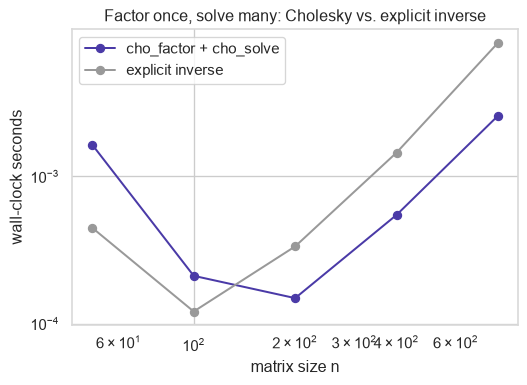
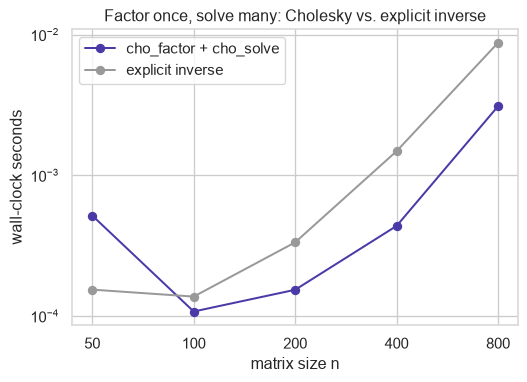
fix(posts): add business context to matrix-factorizations examples, fix Cholesky plot axes
Each applied section now opens with the real-world problem the technique
solves (fleet monitoring noise, breeding-program trial costs, leukemia
subtyping) before the dataset. The Cholesky benchmark's log-scale x-axis
had overlapping tick labels from matplotlib's default minor-tick
formatting; pinned explicit ticks at the actual matrix sizes tested.

diff --git a/docs/posts/matrix-factorizations/index.html b/docs/posts/matrix-factorizations/index.html
@@ -244,26 +244,27 @@ window.Quarto = {
 </figure>
 </div>
 <p>Every factorization here is the closed-form answer to a constrained optimization problem — you just don’t usually see the constraint written down. QR is OLS refusing to square its condition number. Truncated SVD is the provably best solution to “compress this matrix.” Eigendecomposition falls out of maximizing variance along one direction instead of building two orthogonal bases. NMF is SVD’s optimum with a sign constraint bolted on. Cholesky is a positive-definite solve that stops re-deriving the inverse every time. Picking a factorization is picking which constraint buys stability, compression, or interpretability.</p>
-<div id="c3ec2545" class="cell" data-execution_count="1">
+<div id="27f1da97" class="cell" data-execution_count="1">
 <details class="code-fold">
 <summary>Code</summary>
 <div class="sourceCode cell-code" id="cb1"><pre class="sourceCode python code-with-copy"><code class="sourceCode python"><span id="cb1-1"><a href="#cb1-1" aria-hidden="true" tabindex="-1"></a><span class="im">import</span> io</span>
 <span id="cb1-2"><a href="#cb1-2" aria-hidden="true" tabindex="-1"></a><span class="im">import</span> time</span>
 <span id="cb1-3"><a href="#cb1-3" aria-hidden="true" tabindex="-1"></a></span>
 <span id="cb1-4"><a href="#cb1-4" aria-hidden="true" tabindex="-1"></a><span class="im">import</span> matplotlib.pyplot <span class="im">as</span> plt</span>
-<span id="cb1-5"><a href="#cb1-5" aria-hidden="true" tabindex="-1"></a><span class="im">import</span> numpy <span class="im">as</span> np</span>
-<span id="cb1-6"><a href="#cb1-6" aria-hidden="true" tabindex="-1"></a><span class="im">import</span> pandas <span class="im">as</span> pd</span>
-<span id="cb1-7"><a href="#cb1-7" aria-hidden="true" tabindex="-1"></a><span class="im">import</span> pyreadr</span>
-<span id="cb1-8"><a href="#cb1-8" aria-hidden="true" tabindex="-1"></a><span class="im">import</span> requests</span>
-<span id="cb1-9"><a href="#cb1-9" aria-hidden="true" tabindex="-1"></a><span class="im">import</span> seaborn <span class="im">as</span> sns</span>
-<span id="cb1-10"><a href="#cb1-10" aria-hidden="true" tabindex="-1"></a><span class="im">from</span> numpy.linalg <span class="im">import</span> cond, eigh, svd</span>
-<span id="cb1-11"><a href="#cb1-11" aria-hidden="true" tabindex="-1"></a><span class="im">from</span> scipy.linalg <span class="im">import</span> cho_factor, cho_solve, cholesky, qr, solve, solve_triangular</span>
-<span id="cb1-12"><a href="#cb1-12" aria-hidden="true" tabindex="-1"></a><span class="im">from</span> sklearn.decomposition <span class="im">import</span> NMF</span>
-<span id="cb1-13"><a href="#cb1-13" aria-hidden="true" tabindex="-1"></a></span>
-<span id="cb1-14"><a href="#cb1-14" aria-hidden="true" tabindex="-1"></a>sns.set_theme(style<span class="op">=</span><span class="st">"whitegrid"</span>, rc<span class="op">=</span>{<span class="st">"axes.edgecolor"</span>: <span class="st">"0.85"</span>})</span>
-<span id="cb1-15"><a href="#cb1-15" aria-hidden="true" tabindex="-1"></a>ACCENT <span class="op">=</span> <span class="st">"#4A3AA7"</span></span>
-<span id="cb1-16"><a href="#cb1-16" aria-hidden="true" tabindex="-1"></a>GREY <span class="op">=</span> <span class="st">"#999999"</span></span>
-<span id="cb1-17"><a href="#cb1-17" aria-hidden="true" tabindex="-1"></a>rng <span class="op">=</span> np.random.default_rng(<span class="dv">7</span>)</span></code><button title="Copy to Clipboard" class="code-copy-button"><i class="bi"></i></button></pre></div>
+<span id="cb1-5"><a href="#cb1-5" aria-hidden="true" tabindex="-1"></a><span class="im">import</span> matplotlib.ticker <span class="im">as</span> mticker</span>
+<span id="cb1-6"><a href="#cb1-6" aria-hidden="true" tabindex="-1"></a><span class="im">import</span> numpy <span class="im">as</span> np</span>
+<span id="cb1-7"><a href="#cb1-7" aria-hidden="true" tabindex="-1"></a><span class="im">import</span> pandas <span class="im">as</span> pd</span>
+<span id="cb1-8"><a href="#cb1-8" aria-hidden="true" tabindex="-1"></a><span class="im">import</span> pyreadr</span>
+<span id="cb1-9"><a href="#cb1-9" aria-hidden="true" tabindex="-1"></a><span class="im">import</span> requests</span>
+<span id="cb1-10"><a href="#cb1-10" aria-hidden="true" tabindex="-1"></a><span class="im">import</span> seaborn <span class="im">as</span> sns</span>
+<span id="cb1-11"><a href="#cb1-11" aria-hidden="true" tabindex="-1"></a><span class="im">from</span> numpy.linalg <span class="im">import</span> cond, eigh, svd</span>
+<span id="cb1-12"><a href="#cb1-12" aria-hidden="true" tabindex="-1"></a><span class="im">from</span> scipy.linalg <span class="im">import</span> cho_factor, cho_solve, cholesky, qr, solve, solve_triangular</span>
+<span id="cb1-13"><a href="#cb1-13" aria-hidden="true" tabindex="-1"></a><span class="im">from</span> sklearn.decomposition <span class="im">import</span> NMF</span>
+<span id="cb1-14"><a href="#cb1-14" aria-hidden="true" tabindex="-1"></a></span>
+<span id="cb1-15"><a href="#cb1-15" aria-hidden="true" tabindex="-1"></a>sns.set_theme(style<span class="op">=</span><span class="st">"whitegrid"</span>, rc<span class="op">=</span>{<span class="st">"axes.edgecolor"</span>: <span class="st">"0.85"</span>})</span>
+<span id="cb1-16"><a href="#cb1-16" aria-hidden="true" tabindex="-1"></a>ACCENT <span class="op">=</span> <span class="st">"#4A3AA7"</span></span>
+<span id="cb1-17"><a href="#cb1-17" aria-hidden="true" tabindex="-1"></a>GREY <span class="op">=</span> <span class="st">"#999999"</span></span>
+<span id="cb1-18"><a href="#cb1-18" aria-hidden="true" tabindex="-1"></a>rng <span class="op">=</span> np.random.default_rng(<span class="dv">7</span>)</span></code><button title="Copy to Clipboard" class="code-copy-button"><i class="bi"></i></button></pre></div>
 </details>
 </div>
 <section id="squaring-the-condition-number-is-the-hidden-cost-of-the-normal-equations" class="level2">
@@ -282,7 +283,7 @@ window.Quarto = {
 <p>and since <span class="math inline">\(R^T\)</span> is invertible, both sides cancel it, leaving</p>
 <p><span class="math display">\[R\beta=Q^Ty.\]</span></p>
 <p>Back-substitution solves this in <span class="math inline">\(O(n^2)\)</span>, conditioned on <span class="math inline">\(\kappa(X)\)</span> — never <span class="math inline">\(\kappa(X)^2\)</span> — because <span class="math inline">\(X^TX\)</span> is never formed.</p>
-<div id="c2c6a108" class="cell" data-execution_count="2">
+<div id="a24dccba" class="cell" data-execution_count="2">
 <details class="code-fold">
 <summary>Code</summary>
 <div class="sourceCode cell-code" id="cb2"><pre class="sourceCode python code-with-copy"><code class="sourceCode python"><span id="cb2-1"><a href="#cb2-1" aria-hidden="true" tabindex="-1"></a><span class="co"># Build X with a controlled condition number instead of a raw high-degree</span></span>
@@ -325,7 +326,7 @@ cond(X.T@X) = 1.000e+12
 <p>with equality exactly at the truncation</p>
 <p><span class="math display">\[A_k=\sum_{i\le k}\sigma_i u_i v_i^T.\]</span></p>
 <p>The proof runs through Courant-Fischer: any rank-<span class="math inline">\(k\)</span> <span class="math inline">\(B\)</span> vanishes on some <span class="math inline">\((n-k)\)</span>-dimensional subspace, which lower-bounds its residual by the tail singular values no matter how <span class="math inline">\(B\)</span> is chosen. That’s a statement about <em>every</em> rank-<span class="math inline">\(k\)</span> matrix, not just other factorizations — nothing beats truncated SVD on Frobenius error at a given rank.</p>
-<div id="ca33cd0c" class="cell" data-execution_count="3">
+<div id="94e5a1ff" class="cell" data-execution_count="3">
 <details class="code-fold">
 <summary>Code</summary>
 <div class="sourceCode cell-code" id="cb4"><pre class="sourceCode python code-with-copy"><code class="sourceCode python"><span id="cb4-1"><a href="#cb4-1" aria-hidden="true" tabindex="-1"></a>A <span class="op">=</span> rng.normal(size<span class="op">=</span>(<span class="dv">60</span>, <span class="dv">40</span>))</span>
@@ -353,7 +354,7 @@ sqrt(sum tail^2) = 32.942888</code></pre>
 <p>with stationarity condition</p>
 <p><span class="math display">\[\nabla_v\mathcal L=2Av-2\lambda v=0 \implies Av=\lambda v\]</span></p>
 <p>— eigenvectors are the Rayleigh quotient’s stationary points, eigenvalues the stationary values. <span class="math inline">\(A=Q\Lambda Q^T\)</span> falls out by repeating the maximization on the orthogonal complement already found. For <span class="math inline">\(\Sigma=X^TX\)</span>, eigenvalues of <span class="math inline">\(\Sigma\)</span> are <span class="math inline">\(\sigma_i(X)^2\)</span> — the same identity from above. Eigendecomposing a covariance matrix directly inherits the normal equations’ <span class="math inline">\(\kappa(X)^2\)</span> instability; SVD on the centered data instead sidesteps it, the same fix as before.</p>
-<div id="43394087" class="cell" data-execution_count="4">
+<div id="7755ba3d" class="cell" data-execution_count="4">
 <details class="code-fold">
 <summary>Code</summary>
 <div class="sourceCode cell-code" id="cb6"><pre class="sourceCode python code-with-copy"><code class="sourceCode python"><span id="cb6-1"><a href="#cb6-1" aria-hidden="true" tabindex="-1"></a>Xc <span class="op">=</span> X <span class="op">-</span> X.mean(axis<span class="op">=</span><span class="dv">0</span>)</span>
@@ -380,7 +381,7 @@ cond(Sigma) = 9.911e+11   cond(Xc) = 9.955e+05</code></pre>
 <p>Lee and Seung’s multiplicative update rescales gradient descent so nonnegativity holds automatically:</p>
 <p><span class="math display">\[H \leftarrow H \odot \frac{W^TV}{W^TWH}, \qquad W \leftarrow W \odot \frac{VH^T}{WHH^T},\]</span></p>
 <p>and it provably decreases the objective monotonically. The cost: it’s only biconvex, not jointly convex, so it converges to <em>a</em> stationary point, not the global one, and it’s sensitive to initialization — <code>nndsvda</code> is a deterministic fix for that, not a guarantee.</p>
-<div id="e029911a" class="cell" data-execution_count="5">
+<div id="f160b223" class="cell" data-execution_count="5">
 <details class="code-fold">
 <summary>Code</summary>
 <div class="sourceCode cell-code" id="cb8"><pre class="sourceCode python code-with-copy"><code class="sourceCode python"><span id="cb8-1"><a href="#cb8-1" aria-hidden="true" tabindex="-1"></a>V_demo <span class="op">=</span> rng.gamma(shape<span class="op">=</span><span class="fl">2.0</span>, scale<span class="op">=</span><span class="fl">1.0</span>, size<span class="op">=</span>(<span class="dv">50</span>, <span class="dv">30</span>))</span>
@@ -405,7 +406,7 @@ W, H nonnegative: True, True</code></pre>
 <p>versus forming <span class="math inline">\(A^{-1}\)</span> explicitly, similar asymptotic cost but worse constants and conditioning — never invert to solve. For covariance-structured data,</p>
 <p><span class="math display">\[x=Lz, \quad z\sim\mathcal N(0,I) \implies x\sim\mathcal N(0,\Sigma):\]</span></p>
 <p>Cholesky is the sampling mechanism, not just the solver.</p>
-<div id="d80a9191" class="cell" data-execution_count="6">
+<div id="5670c2c9" class="cell" data-execution_count="6">
 <details class="code-fold">
 <summary>Code</summary>
 <div class="sourceCode cell-code" id="cb10"><pre class="sourceCode python code-with-copy"><code class="sourceCode python"><span id="cb10-1"><a href="#cb10-1" aria-hidden="true" tabindex="-1"></a>sizes <span class="op">=</span> [<span class="dv">50</span>, <span class="dv">100</span>, <span class="dv">200</span>, <span class="dv">400</span>, <span class="dv">800</span>]</span>
@@ -427,11 +428,14 @@ W, H nonnegative: True, True</code></pre>
 <span id="cb10-17"><a href="#cb10-17" aria-hidden="true" tabindex="-1"></a>fig, ax <span class="op">=</span> plt.subplots(figsize<span class="op">=</span>(<span class="dv">6</span>, <span class="dv">4</span>))</span>
 <span id="cb10-18"><a href="#cb10-18" aria-hidden="true" tabindex="-1"></a>ax.loglog(sizes, factor_times, <span class="st">"o-"</span>, color<span class="op">=</span>ACCENT, label<span class="op">=</span><span class="st">"cho_factor + cho_solve"</span>)</span>
 <span id="cb10-19"><a href="#cb10-19" aria-hidden="true" tabindex="-1"></a>ax.loglog(sizes, inv_times, <span class="st">"o-"</span>, color<span class="op">=</span>GREY, label<span class="op">=</span><span class="st">"explicit inverse"</span>)</span>
-<span id="cb10-20"><a href="#cb10-20" aria-hidden="true" tabindex="-1"></a>ax.set_xlabel(<span class="st">"matrix size n"</span>)</span>
-<span id="cb10-21"><a href="#cb10-21" aria-hidden="true" tabindex="-1"></a>ax.set_ylabel(<span class="st">"wall-clock seconds"</span>)</span>
-<span id="cb10-22"><a href="#cb10-22" aria-hidden="true" tabindex="-1"></a>ax.set_title(<span class="st">"Factor once, solve many: Cholesky vs. explicit inverse"</span>)</span>
-<span id="cb10-23"><a href="#cb10-23" aria-hidden="true" tabindex="-1"></a>ax.legend()</span>
-<span id="cb10-24"><a href="#cb10-24" aria-hidden="true" tabindex="-1"></a>plt.show()</span></code><button title="Copy to Clipboard" class="code-copy-button"><i class="bi"></i></button></pre></div>
+<span id="cb10-20"><a href="#cb10-20" aria-hidden="true" tabindex="-1"></a>ax.xaxis.set_major_locator(mticker.FixedLocator(sizes))</span>
+<span id="cb10-21"><a href="#cb10-21" aria-hidden="true" tabindex="-1"></a>ax.xaxis.set_major_formatter(mticker.FixedFormatter([<span class="bu">str</span>(s) <span class="cf">for</span> s <span class="kw">in</span> sizes]))</span>
+<span id="cb10-22"><a href="#cb10-22" aria-hidden="true" tabindex="-1"></a>ax.xaxis.set_minor_locator(mticker.NullLocator())</span>
+<span id="cb10-23"><a href="#cb10-23" aria-hidden="true" tabindex="-1"></a>ax.set_xlabel(<span class="st">"matrix size n"</span>)</span>
+<span id="cb10-24"><a href="#cb10-24" aria-hidden="true" tabindex="-1"></a>ax.set_ylabel(<span class="st">"wall-clock seconds"</span>)</span>
+<span id="cb10-25"><a href="#cb10-25" aria-hidden="true" tabindex="-1"></a>ax.set_title(<span class="st">"Factor once, solve many: Cholesky vs. explicit inverse"</span>)</span>
+<span id="cb10-26"><a href="#cb10-26" aria-hidden="true" tabindex="-1"></a>ax.legend()</span>
+<span id="cb10-27"><a href="#cb10-27" aria-hidden="true" tabindex="-1"></a>plt.show()</span></code><button title="Copy to Clipboard" class="code-copy-button"><i class="bi"></i></button></pre></div>
 </details>
 <div class="cell-output cell-output-display">
 <div>
@@ -444,8 +448,8 @@ W, H nonnegative: True, True</code></pre>
 </section>
 <section id="a-real-ec2-fleets-telemetry-is-a-low-rank-signal-plus-a-spike-svd-isolates" class="level2">
 <h2 class="anchored" data-anchor-id="a-real-ec2-fleets-telemetry-is-a-low-rank-signal-plus-a-spike-svd-isolates">A real EC2 fleet’s telemetry is a low-rank signal plus a spike SVD isolates</h2>
-<p>Numenta built the <a href="https://github.com/numenta/NAB">NAB benchmark</a> to test anomaly detection against real streaming metrics, not synthetic ones: its <code>realAWSCloudwatch</code> category is CPU utilization from eight actual production EC2 instances via AmazonCloudwatch, each with human-verified anomaly timestamps. Eight instances, not thousands — worth saying plainly. <em>(This section and the two after it fetch real data live at render time; a future re-render depends on those repositories staying up, though a project-wide render never re-executes this page once frozen.)</em></p>
-<div id="f2a3a337" class="cell" data-execution_count="7">
+<p>A cloud team can’t stare at every instance’s dashboard — the practical ask is a handful of scores that catch a real incident without flooding on-call with false alarms, which is exactly the compression-versus-vigilance tradeoff a factorization is suited to. Numenta built the <a href="https://github.com/numenta/NAB">NAB benchmark</a> to test anomaly detection against real streaming metrics, not synthetic ones, for that reason: its <code>realAWSCloudwatch</code> category is CPU utilization from eight actual production EC2 instances via AmazonCloudwatch, each with human-verified anomaly timestamps. Eight instances, not thousands — worth saying plainly. <em>(This section and the two after it fetch real data live at render time; a future re-render depends on those repositories staying up, though a project-wide render never re-executes this page once frozen.)</em></p>
+<div id="c9524f8f" class="cell" data-execution_count="7">
 <details class="code-fold">
 <summary>Code</summary>
 <div class="sourceCode cell-code" id="cb11"><pre class="sourceCode python code-with-copy"><code class="sourceCode python"><span id="cb11-1"><a href="#cb11-1" aria-hidden="true" tabindex="-1"></a>base <span class="op">=</span> <span class="st">"https://raw.githubusercontent.com/numenta/NAB/master"</span></span>
@@ -470,7 +474,7 @@ W, H nonnegative: True, True</code></pre>
 </div>
 </div>
 <p>Stack all eight as columns of one real matrix and take the SVD; the scree plot’s elbow says a handful of factors carry the fleet’s shared regime structure:</p>
-<div id="36464a1d" class="cell" data-execution_count="8">
+<div id="a29c420f" class="cell" data-execution_count="8">
 <details class="code-fold">
 <summary>Code</summary>
 <div class="sourceCode cell-code" id="cb13"><pre class="sourceCode python code-with-copy"><code class="sourceCode python"><span id="cb13-1"><a href="#cb13-1" aria-hidden="true" tabindex="-1"></a>X_tel <span class="op">=</span> telemetry.to_numpy()</span>
@@ -492,7 +496,7 @@ W, H nonnegative: True, True</code></pre>
 </div>
 </div>
 </div>
-<div id="72f83b71" class="cell" data-execution_count="9">
+<div id="eaaf7ff4" class="cell" data-execution_count="9">
 <details class="code-fold">
 <summary>Code</summary>
 <div class="sourceCode cell-code" id="cb14"><pre class="sourceCode python code-with-copy"><code class="sourceCode python"><span id="cb14-1"><a href="#cb14-1" aria-hidden="true" tabindex="-1"></a>fig, ax <span class="op">=</span> plt.subplots(figsize<span class="op">=</span>(<span class="dv">8</span>, <span class="fl">2.8</span>))</span>
@@ -511,7 +515,7 @@ W, H nonnegative: True, True</code></pre>
 </div>
 </div>
 <p>The residual after truncating isn’t just visually busy near the labeled anomalies — it’s the anomaly <em>score</em>, and here it’s checked against timestamps a human actually flagged, not injected ones:</p>
-<div id="8d1a3beb" class="cell" data-execution_count="10">
+<div id="01fc7b47" class="cell" data-execution_count="10">
 <details class="code-fold">
 <summary>Code</summary>
 <div class="sourceCode cell-code" id="cb15"><pre class="sourceCode python code-with-copy"><code class="sourceCode python"><span id="cb15-1"><a href="#cb15-1" aria-hidden="true" tabindex="-1"></a>k_tel <span class="op">=</span> <span class="dv">4</span></span>
@@ -541,8 +545,8 @@ W, H nonnegative: True, True</code></pre>
 </section>
 <section id="linkage-disequilibrium-is-collinearity-with-a-biological-name-and-qr-survives-it" class="level2">
 <h2 class="anchored" data-anchor-id="linkage-disequilibrium-is-collinearity-with-a-biological-name-and-qr-survives-it">Linkage disequilibrium is collinearity with a biological name, and QR survives it</h2>
-<p>CIMMYT’s Global Wheat Program genotyped 599 real breeding lines at 1279 real DArT markers and recorded real grain yield across four field environments, distributed for reuse via the BGLR R package.</p>
-<div id="4ba4b1e4" class="cell" data-execution_count="11">
+<p>A breeding program genotypes far more candidate lines than it can afford to field-trial — advancing the wrong ones wastes a growing season that can’t be sped up. Genomic selection exists to make that call from markers alone, before a single seed is planted. CIMMYT’s Global Wheat Program genotyped 599 real breeding lines at 1279 real DArT markers and recorded real grain yield across four field environments, distributed for reuse via the BGLR R package.</p>
+<div id="137eca56" class="cell" data-execution_count="11">
 <details class="code-fold">
 <summary>Code</summary>
 <div class="sourceCode cell-code" id="cb16"><pre class="sourceCode python code-with-copy"><code class="sourceCode python"><span id="cb16-1"><a href="#cb16-1" aria-hidden="true" tabindex="-1"></a>resp <span class="op">=</span> requests.get(<span class="st">"https://raw.githubusercontent.com/gdlc/BGLR-R/master/data/wheat.RData"</span>, timeout<span class="op">=</span><span class="dv">60</span>)</span>
@@ -559,7 +563,7 @@ W, H nonnegative: True, True</code></pre>
 </div>
 </div>
 <p>With <span class="math inline">\(p=1279\)</span> markers exceeding <span class="math inline">\(n=599\)</span> lines, the full marker matrix makes <span class="math inline">\(X^TX\)</span> singular outright — normal equations can’t even be inverted. Subsetting by variance and sweeping how many markers enter the regression shows two real effects at once:</p>
-<div id="9075ecfa" class="cell" data-execution_count="12">
+<div id="720d4a83" class="cell" data-execution_count="12">
 <details class="code-fold">
 <summary>Code</summary>
 <div class="sourceCode cell-code" id="cb18"><pre class="sourceCode python code-with-copy"><code class="sourceCode python"><span id="cb18-1"><a href="#cb18-1" aria-hidden="true" tabindex="-1"></a>marker_var <span class="op">=</span> X_markers.var(axis<span class="op">=</span><span class="dv">0</span>)</span>
@@ -598,7 +602,7 @@ cond(X):       ['2.28e+01', '8.56e+01', '2.37e+02', '5.25e+02', '1.13e+03', '2.2
 cond(X.T@X):   ['5.19e+02', '7.33e+03', '5.62e+04', '2.75e+05', '1.27e+06', '4.88e+06', '3.57e+08']</code></pre>
 </div>
 </div>
-<div id="e8e6ba6a" class="cell" data-execution_count="13">
+<div id="74f57241" class="cell" data-execution_count="13">
 <details class="code-fold">
 <summary>Code</summary>
 <div class="sourceCode cell-code" id="cb20"><pre class="sourceCode python code-with-copy"><code class="sourceCode python"><span id="cb20-1"><a href="#cb20-1" aria-hidden="true" tabindex="-1"></a>fig, axes <span class="op">=</span> plt.subplots(<span class="dv">1</span>, <span class="dv">3</span>, figsize<span class="op">=</span>(<span class="dv">14</span>, <span class="dv">4</span>))</span>
@@ -634,7 +638,7 @@ cond(X.T@X):   ['5.19e+02', '7.33e+03', '5.62e+04', '2.75e+05', '1.27e+06', '4.8
 </div>
 <p>Held-out accuracy degrades toward zero as marker count nears the 450 training lines — real overfitting, the reason genomic selection never runs plain OLS at genome-wide marker density. Conditioning explains the risk underneath: <span class="math inline">\(\kappa(X)\)</span> and <span class="math inline">\(\kappa(X^TX)\)</span> both grow by orders of magnitude as <span class="math inline">\(p\to n\)</span>, but <span class="math inline">\(\kappa(X^TX)\)</span> — normal equations’ effective conditioning — outpaces <span class="math inline">\(\kappa(X)\)</span> by exactly the squaring from the opening section, burning through double precision’s <span class="math inline">\(\sim\!10^{16}\)</span> margin at roughly half the marker count QR can still handle. That’s the real mechanism behind why breeding programs use ridge-shrunk GBLUP instead of raw least squares — exactly what the same real markers do next.</p>
 <p>The same 350 markers build <span class="math inline">\(G\propto XX^T\)</span>, the genomic relationship matrix. Cholesky-factoring <span class="math inline">\(G\)</span> and sampling <span class="math inline">\(x=Lz\)</span> is the actual mechanism GBLUP uses to simulate correlated breeding values:</p>
-<div id="a787a544" class="cell" data-execution_count="14">
+<div id="515cb5bd" class="cell" data-execution_count="14">
 <details class="code-fold">
 <summary>Code</summary>
 <div class="sourceCode cell-code" id="cb21"><pre class="sourceCode python code-with-copy"><code class="sourceCode python"><span id="cb21-1"><a href="#cb21-1" aria-hidden="true" tabindex="-1"></a>G <span class="op">=</span> (X_sub <span class="op">@</span> X_sub.T) <span class="op">/</span> X_sub.shape[<span class="dv">1</span>]</span>
@@ -648,7 +652,7 @@ cond(X.T@X):   ['5.19e+02', '7.33e+03', '5.62e+04', '2.75e+05', '1.27e+06', '4.8
 </div>
 </div>
 <p>Eigendecomposing that same <span class="math inline">\(G\)</span> — the identity from two sections above, now applied instead of proved — recovers population-structure axes among the 599 real lines:</p>
-<div id="95ae988f" class="cell" data-execution_count="15">
+<div id="d88a6ef9" class="cell" data-execution_count="15">
 <details class="code-fold">
 <summary>Code</summary>
 <div class="sourceCode cell-code" id="cb23"><pre class="sourceCode python code-with-copy"><code class="sourceCode python"><span id="cb23-1"><a href="#cb23-1" aria-hidden="true" tabindex="-1"></a>eigvals_G, eigvecs_G <span class="op">=</span> eigh(G)</span>
@@ -674,8 +678,8 @@ cond(X.T@X):   ['5.19e+02', '7.33e+03', '5.62e+04', '2.75e+05', '1.27e+06', '4.8
 </section>
 <section id="nonnegative-factors-split-real-leukemia-expression-into-the-diagnosis-nobody-told-the-model" class="level2">
 <h2 class="anchored" data-anchor-id="nonnegative-factors-split-real-leukemia-expression-into-the-diagnosis-nobody-told-the-model">Nonnegative factors split real leukemia expression into the diagnosis nobody told the model</h2>
-<p>Golub et al.&nbsp;profiled real bone-marrow samples from 72 leukemia patients on Affymetrix microarrays in 1999, founding molecular cancer classification; Brunet et al.&nbsp;reused this exact data in 2004 to introduce NMF-based tumor subtyping.</p>
-<div id="3ee63626" class="cell" data-execution_count="16">
+<p>A blood smear alone doesn’t always resolve ALL from AML, and the two are treated with different drug regimens — a wrong call costs a patient the right protocol. Expression profiling was the first tool that could resolve the subtype molecularly, without a hand-labeled training set. Golub et al.&nbsp;profiled real bone-marrow samples from 72 leukemia patients on Affymetrix microarrays in 1999, founding molecular cancer classification; Brunet et al.&nbsp;reused this exact data in 2004 to introduce NMF-based tumor subtyping.</p>
+<div id="84ba659c" class="cell" data-execution_count="16">
 <details class="code-fold">
 <summary>Code</summary>
 <div class="sourceCode cell-code" id="cb24"><pre class="sourceCode python code-with-copy"><code class="sourceCode python"><span id="cb24-1"><a href="#cb24-1" aria-hidden="true" tabindex="-1"></a>gbase <span class="op">=</span> <span class="st">"https://raw.githubusercontent.com/dharsandip/Classification_of_Cancer_by_Gene_Expression_Dataset/master"</span></span>
@@ -703,7 +707,7 @@ cond(X.T@X):   ['5.19e+02', '7.33e+03', '5.62e+04', '2.75e+05', '1.27e+06', '4.8
 </div>
 </div>
 <p>NMF needs <span class="math inline">\(V\ge0\)</span>, so raw intensities — which include negative background noise — get floored to a small positive value, then log-transformed and subset to the most variable genes: standard microarray preprocessing, and the step Brunet et al.&nbsp;also applied before fitting NMF to this exact data:</p>
-<div id="13ad0b03" class="cell" data-execution_count="17">
+<div id="a2c9945a" class="cell" data-execution_count="17">
 <details class="code-fold">
 <summary>Code</summary>
 <div class="sourceCode cell-code" id="cb26"><pre class="sourceCode python code-with-copy"><code class="sourceCode python"><span id="cb26-1"><a href="#cb26-1" aria-hidden="true" tabindex="-1"></a>expr_log <span class="op">=</span> np.log2(np.clip(expr, <span class="fl">1.0</span>, <span class="va">None</span>))</span>
@@ -725,7 +729,7 @@ AML                25   0</code></pre>
 </div>
 </div>
 <p>Fitting NMF with <span class="math inline">\(k=2\)</span> and never showing the model a diagnosis, one metagene comes out as an ALL-only signature — every patient it dominates is real ALL, zero are AML — while the other is a near-base-rate mix that carries no such signal:</p>
-<div id="4d2dcd68" class="cell" data-execution_count="18">
+<div id="6799cd90" class="cell" data-execution_count="18">
 <details class="code-fold">
 <summary>Code</summary>
 <div class="sourceCode cell-code" id="cb28"><pre class="sourceCode python code-with-copy"><code class="sourceCode python"><span id="cb28-1"><a href="#cb28-1" aria-hidden="true" tabindex="-1"></a>fig, axes <span class="op">=</span> plt.subplots(<span class="dv">1</span>, <span class="dv">2</span>, figsize<span class="op">=</span>(<span class="dv">11</span>, <span class="fl">4.5</span>))</span>

diff --git a/docs/index.html b/docs/index.html
@@ -239,7 +239,7 @@ Reading Time
 <span class="listing-reading-time">7 min</span>
 </td>
 </tr>
[2 lines of base64/hex data omitted]
 <td>
 <span class="listing-image"><img loading="lazy" src="./posts/matrix-factorizations/cover.png" style="height: 40px;"></span>
 </td>
@@ -250,7 +250,7 @@ Reading Time
 <a href="./posts/matrix-factorizations/index.html" class="title listing-title">Matrix Factorizations as Optimization Problems: QR, SVD, Eigendecomposition, NMF, and Cholesky</a>
 </td>
 <td>
-<span class="listing-reading-time">12 min</span>
+<span class="listing-reading-time">13 min</span>
 </td>
 </tr>
[1 lines of base64/hex data omitted]
